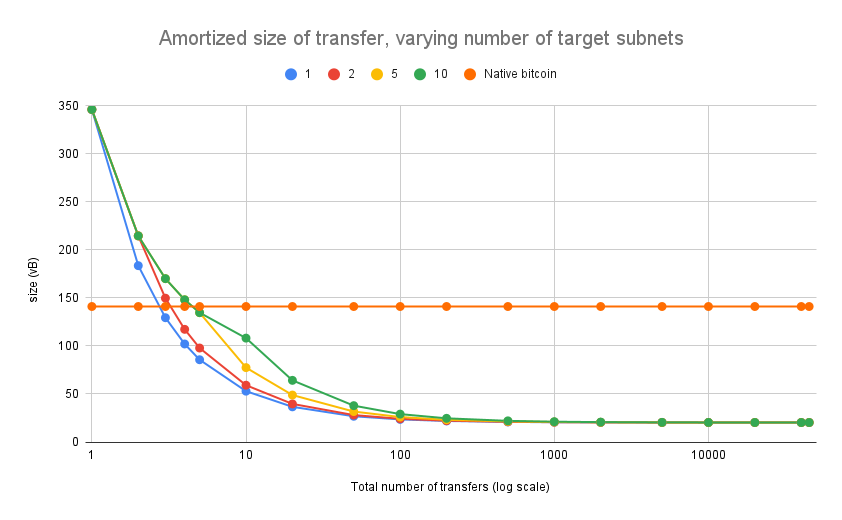
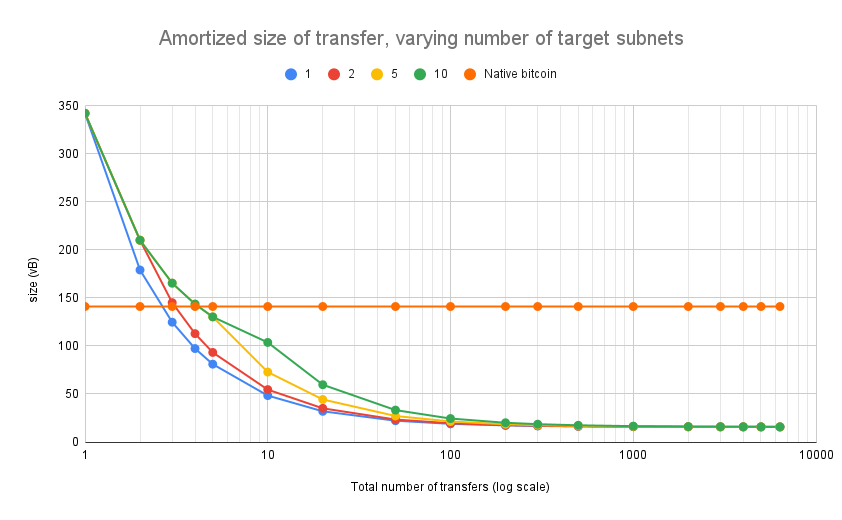
upd benchmark report

diff --git a/docs/specs/benchmarking.md b/docs/specs/benchmarking.md
@@ -28,8 +28,8 @@ The code writes the result in `outputs/transfer.csv`. We then manually paste the
 - We divide with the total number of transfers in the batch, which gives us the *amortized size* of each transfer.
 - We plot the amortized size per transfer vs total number of transfers.
 
-In the following diagram we see the result.
-![Transfer virtual size](../bench-plots/transfer-size-detail.png)
+In the following diagram we see the result for up to 100 total transfers.
+![Transfer virtual size](../bench-plots/transfer-size-detail-100.png)
 
 In the plot we see the following:
 - Using native bitcoin transfers, the size per transfers remains, of course, constant, at 141 vB.
@@ -38,14 +38,26 @@ In the plot we see the following:
 - The more the target subnets, the more expensive the batched transfer is. This is because
     1. The commit transaction contains one output UTXO per target subnet.
     2. The reveal transaction contains (only once) the address of each target subnet.
-- The usage of IPC subnets starts paying off if we batch at least 3 to 5 transfers, depending on the number of target subnets. For example:
-    - If all transfers have the same target subnet, then IPC can batch 3 transfers using ~130 vB on average for each, which is cheaper than the 141 vB of native bitcoin.
-    - If the transfers have two different target subnets, then IPC needs a bit more space to encode them, ~150 vB per transfer for 3 transfers, and ~117 vB per transfer for 4 transfers, hence IPC saves space if we batch at least 4 transfers.
-    - Similarly, if the transfers have five or ten different target subnets, IPC pays off we batch at least 5 of them.
+
+### Finding the breakeven point
+In the following diagram we zoom-in in the area 1-10 transfers.
+The plot also shows the data values for the 1-target-subnet and 10-target-subnet lines.
+![Transfer virtual size](../bench-plots/transfer-size-detail-10.png)
+
+Remark: If the number of transfers for a data point is smaller than the number of target subnets, the benchmark does not use all target subnets.
+E.g., if we are on the line with 10 subnets, the data point at 2 transfers sends 2 transfers at two different target subnets, the data point at 5 uses five target subnets, and so on. For this reason, some points on the lines coincide, e.g.: 
+- 1-target-subnet with 1 transfer = 2-target-subnet with 1 transfer
+- 2-target-subnet with 2 transfers = 5-target-subnet with 2 transfers
+
+We observe that the usage of IPC subnets starts paying off if we batch at least 3 to 5 transfers, depending on the number of target subnets. For example:
+    - If all transfers have the same target subnet, then IPC can batch 3 transfers using ~124.7 vB on average for each, which is cheaper than the 141 vB of native bitcoin.
+    - If the transfers have two different target subnets, then IPC needs a bit more space to encode them, ~145 vB per transfer for 3 transfers, and ~113 vB per transfer for 4 transfers, hence IPC saves space if we batch at least 4 transfers.
+    - If the transfers have five target subnets, IPC pays off we batch at least 5 transactions.
+    - If the transfers have any >5 target subnets, IPC always pays off we batch at least 5 of them (e.g., allowing up to ten target subnets pays off for 5 or more transactions).
 
 ### Taking batching to the limits
-The limit for batching transfers is the limit on the *witness* field in a bitcoin transaction, which equals the block size limit.
-To reach this limit, we increase the batched number of transactions, as long as *both* the commit and the reveal transactions fit in less that 1M vB.
+The limit for batching transfers is the limit of bitcoin on `standard transactions`, which is 100K vB [source: bitcoin implementation](https://github.com/bitcoin/bitcoin/blob/3c098a8aa0780009c11b66b1a5d488a928629ebf/src/policy/policy.h#L24).
+To reach this limit, we increase the batched number of transactions, as long as each of the commit and the reveal transactions fit in less that 100K vB (standard, mention), which fits 6350 transfers (we remark that the two transactions can appear in different blocks). 
 
 We get the following result.
 ![Transfer virtual size](../bench-plots/transfer-size-all-log.png)
@@ -59,9 +71,9 @@ From this plot we can see that
 Observations from the data on the [Spreadsheet file](https://docs.google.com/spreadsheets/d/1VZtpPHY2IwF11sb3uXlqa6nXgET-CbNxcq4vbO-lqiU/edit?usp=sharing) and these plots:
 - The size of the commit transaction only depends on the number of target subnets, as it includes one output UTXO per target subnet. It adds +43 vB for each target subnet.
 - The reveal transaction grows with every transfer we add and with every subnet.
-- The reveal transaction grows faster than the commit transaction, and it is the first to reach the 1M vB limit.
+- The reveal transaction grows faster than the commit transaction, and it is the first to reach the 100K vB limit.
 
 ### Conclusion
-Essentially, IPC offers a throughput-latency tradeoff: An IPC subnet, either periodically or when a certain number of outgoing transfers become finalized in it, creates a batch and submits it to bitcoin. The bigger the batch is the cheaper it will be, in terms of bytes writen to bitcoin, but also the more time it takes to fill the batch.
+Essentially, IPC offers a throughput-latency trade-off: An IPC subnet, either periodically or when a certain number of outgoing transfers become finalized in it, creates a batch and submits it to bitcoin. The bigger the batch is, the cheaper it will be, in terms of bytes written to bitcoin, but also the more time it takes to fill the batch.
 
-For large enough batches, our experiments show that we can reach a *compression factor* of 7.
+For large enough batches, our experiments show that we can reach a *compression factor* of 9.
